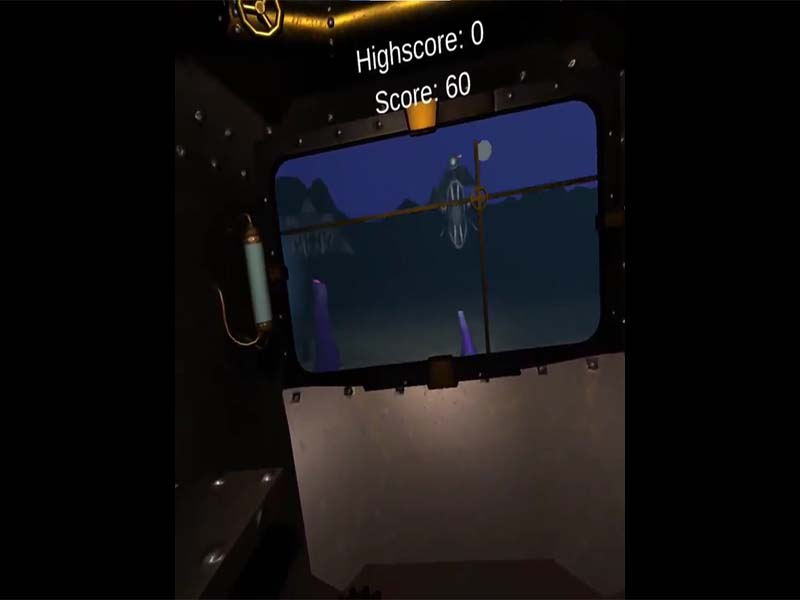
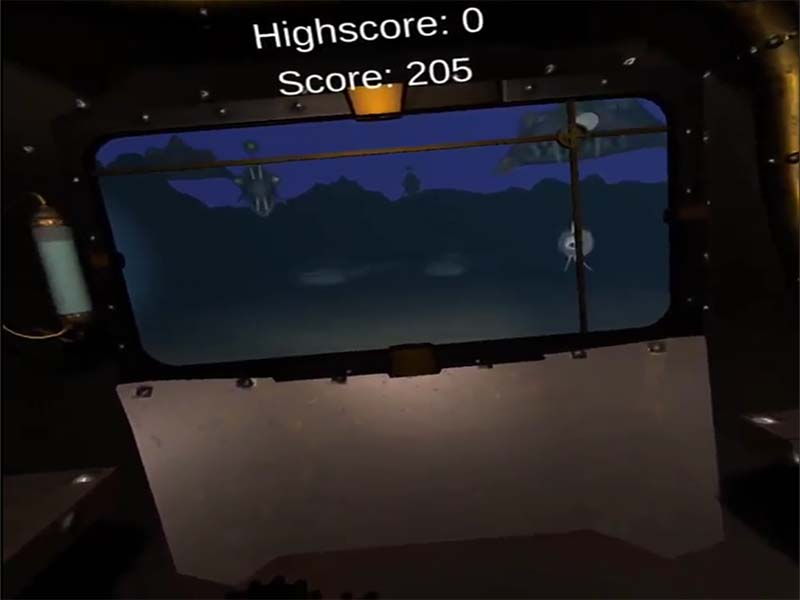
Lots of image changes, portfolio

diff --git a/portfolio-details.html b/portfolio-details.html
@@ -5,7 +5,7 @@
   <meta charset="utf-8">
   <meta content="width=device-width, initial-scale=1.0" name="viewport">
 
-  <title>Portfolio Details - iPortfolio Bootstrap Template</title>
+  <title>Codename: Pariah</title>
   <meta content="" name="description">
   <meta content="" name="keywords">
 
@@ -71,10 +71,10 @@
       <div class="container">
 
         <div class="d-flex justify-content-between align-items-center">
-          <h2>Portfoio Details</h2>
+          <h2>CODENAME: PARIAH</h2>
           <ol>
             <li><a href="index.html">Home</a></li>
-            <li>Portfoio Details</li>
+            <li>Codename: Pariah</li>
           </ol>
         </div>
 
@@ -92,41 +92,60 @@
               <div class="swiper-wrapper align-items-center">
 
                 <div class="swiper-slide">
-                  <img src="assets/img/portfolio/portfolio-details-1.jpg" alt="">
+                  <img src="assets/img/portfolio/Codename-Pariah-Screenshot_003_1.jpg" alt="">
                 </div>
 
                 <div class="swiper-slide">
-                  <img src="assets/img/portfolio/portfolio-details-2.jpg" alt="">
+                  <img src="assets/img/portfolio/Codename-Pariah-Screenshot_002.jpg" alt="">
                 </div>
 
                 <div class="swiper-slide">
-                  <img src="assets/img/portfolio/portfolio-details-3.jpg" alt="">
+                  <img src="assets/img/portfolio/Codename-Pariah-Screenshot_001.jpg" alt="">
                 </div>
+				
+				<div class="swiper-slide">
+				<img src ="assets/img/portfolio/telemetry.jpg" alt ="">
+				</div>
 
               </div>
               <div class="swiper-pagination"></div>
             </div>
+			<iframe width="856" height="398.75" src="https://www.youtube.com/embed/rLb3wXMPOD4" title="YouTube video player" frameborder="0" allow="accelerometer; autoplay; clipboard-write; encrypted-media; gyroscope; picture-in-picture" allowfullscreen></iframe>
           </div>
 
           <div class="col-lg-4">
             <div class="portfolio-info">
               <h3>Project information</h3>
               <ul>
-                <li><strong>Category</strong>: Web design</li>
-                <li><strong>Client</strong>: ASU Company</li>
-                <li><strong>Project date</strong>: 01 March, 2020</li>
+                <li><strong>Genre</strong>: Action FPS</li>
+                <li><strong>Year</strong>: 2021</li>
                 <li><strong>Project URL</strong>: <a href="#">www.example.com</a></li>
               </ul>
             </div>
             <div class="portfolio-description">
-              <h2>This is an example of portfolio detail</h2>
+              <h2>Kill and Escape</h2>
               <p>
-                Autem ipsum nam porro corporis rerum. Quis eos dolorem eos itaque inventore commodi labore quia quia. Exercitationem repudiandae officiis neque suscipit non officia eaque itaque enim. Voluptatem officia accusantium nesciunt est omnis tempora consectetur dignissimos. Sequi nulla at esse enim cum deserunt eius.
-              </p>
+                Codename: Pariah is a fast-paced First Person Shooter with push forward combat where you play as an ethereal being from beyond our solar system.
+				</p>
+				<p>
+				Finding yourself in a scientific testing facility on the dwarf planet Ceres, players control the entity known as Pariah and must escape the facility.
+				Pariah has no weapons or abilities but can inhabit the various enemies to use their health, weapons and ammo as they see fit.
+				</p>
+				<p>
+				
+				On this project I worked as a UI programmer where I linked up all the code for the menus, scene management and heads-up display.
+				</p>
+				<p>
+				Furthermore, for this project I also worked on a telemetry analytics tool that was to be used for the purpose of finding map exploits during the bug testing phase as well as the assistance in level design.
+				</p>
+				<p>
+				With only one designer on the team, I also took on a generalist role in order to share the workload a little and did tasks such as level scripting and toggle triggers.
+				</p>
             </div>
           </div>
 
         </div>
+		
 
       </div>
     </section><!-- End Portfolio Details Section -->

diff --git a/index.html b/index.html
@@ -260,7 +260,7 @@
 			  <div class="linkedin">
 				<i class="bi bi-linkedin"></i>
 				<h4>LinkedIn:</h4>
-				<p><a href=https://www.linkedin.com/in/lauchlanwoodhall/>https://www.linkedin.com/in/lauchlanwoodhall/</a></p> 
+				<p><a href=https://www.linkedin.com/in/lauchlanwoodhall/ target="_blank">https://www.linkedin.com/in/lauchlanwoodhall/</a></p> 
 			  </div>
 			  
             </div>
